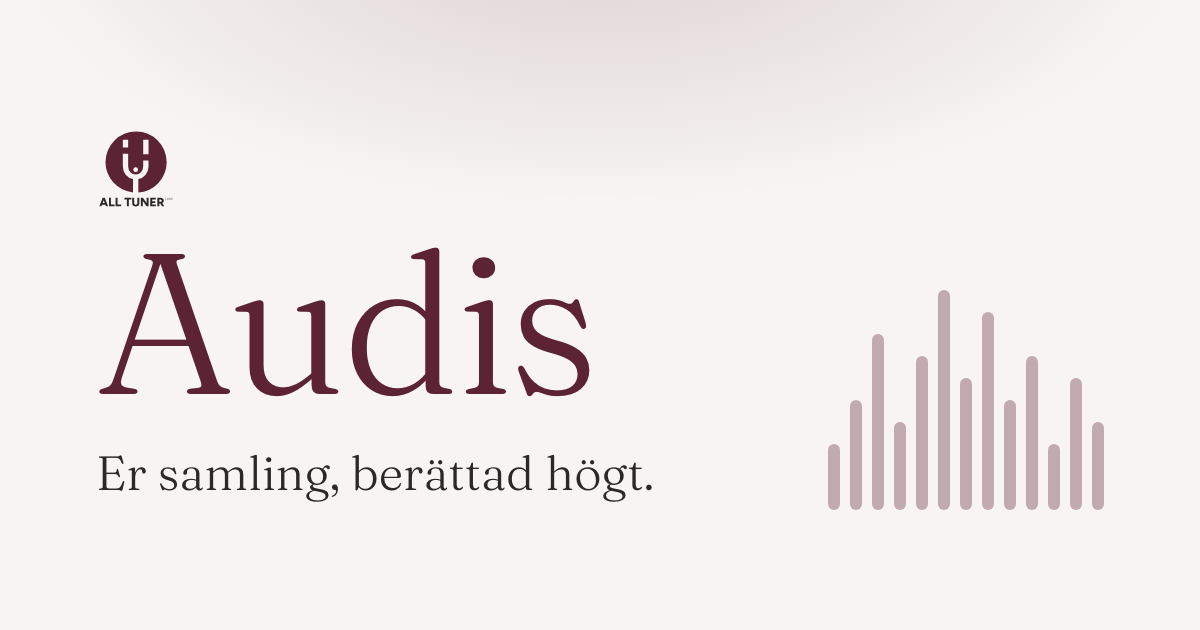
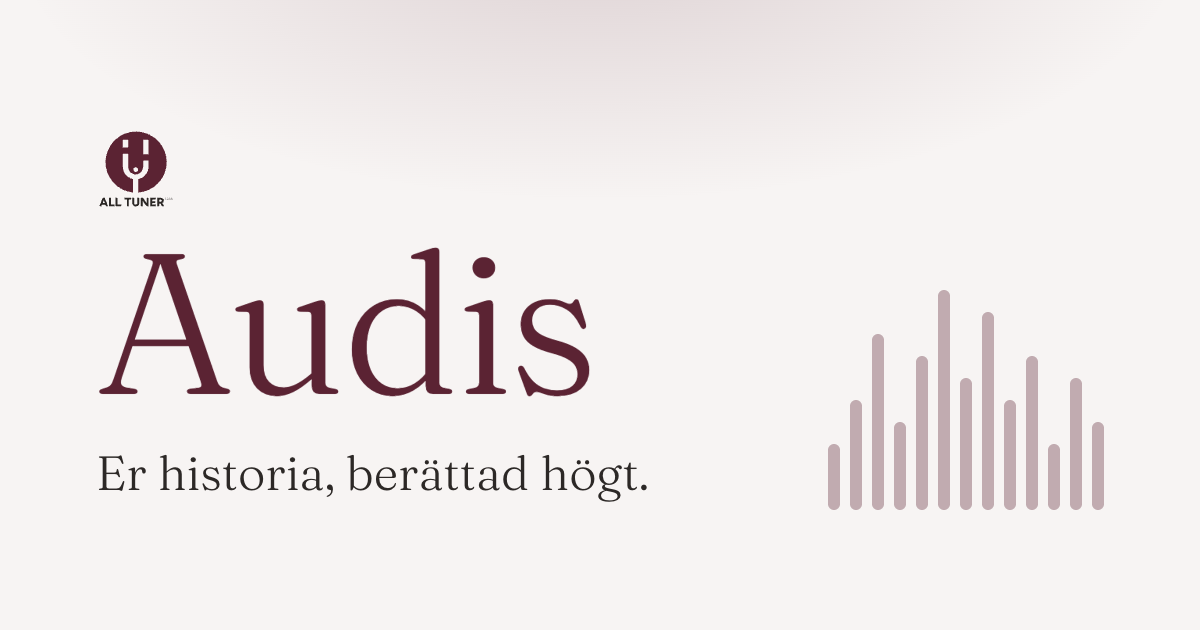
Broaden the Swedish Audis page beyond museums (#64)
Swedish copy from the proposal: 'Er historia, berättad högt.', written for any organisation and its audience rather than a museum's collection and visitors. Updates the Swedish homepage blurb and share image to match. Other languages are unchanged.

Changed region(s): [[0.1233, 0.7238, 0.555, 0.8143]]

diff --git a/scripts/og/audis.html b/scripts/og/audis.html
@@ -31,7 +31,7 @@
     var taglines = {
       en: "Your collection, told aloud.",
       ca: "La vostra col·lecció, explicada en veu alta.",
-      sv: "Er samling, berättad högt.",
+      sv: "Er historia, berättad högt.",
       es: "Su colección, contada en voz alta."
     };
     var lang = new URLSearchParams(location.search).get("lang") || "en";

diff --git a/content/sv/audis/_index.md b/content/sv/audis/_index.md
@@ -1,18 +1,18 @@
 ---
 title: "Audis"
-meta_title: "AllTuner Audis: ljudguider och berättelser för museer"
-description: "Ljudguider, berättelser om föremål och poddliknande avsnitt för museer och kulturinstitutioner, inlästa på era besökares språk."
+meta_title: "AllTuner Audis: er historia, berättad högt"
+description: "Ljudguider, berättelser om föremål och poddliknande avsnitt, skrivna just för er och inlästa på de språk ni önskar."
 outputs: [html]
 translationKey: audis
 service_name: "AllTuner Audis"
 og_image: "/statics/img/og/audis-sv.png"
-og_image_alt: "AllTuner Audis. Er samling, berättad högt."
-headline: "Er samling, berättad högt."
-lead: "Ljudguider, berättelser om föremål och poddliknande avsnitt, skrivna för er institution och inlästa på de språk era besökare talar, med undertexter som följer varje ord."
+og_image_alt: "AllTuner Audis. Er historia, berättad högt."
+headline: "Er historia, berättad högt."
+lead: "Ljudguider, berättelser om föremål och poddliknande avsnitt, skrivna just för er och inlästa på de språk ni önskar, med undertexter som följer varje ord."
 features:
-  - title: "Skrivet för er samling"
-    text: "Varje serie utgår från efterforskningar om er institution: dess föremål, dess människor och dess berättelser. Vårt team granskar varje uppgift och varje manus innan något ljud tas fram."
-  - title: "På era besökares språk"
+  - title: "Skrivet för er"
+    text: "Varje serie utgår från efterforskningar om och med er: era visioner, er målgrupp, era berättelser. Vårt team granskar varje uppgift och varje manus innan något spelas in."
+  - title: "På er målgrupps språk"
     text: "Varje språk får ett eget manus, skrivet för just det språket och inte översatt ord för ord, som läses in av en varm och uttrycksfull AI-röst."
   - title: "Undertexter som följer varje ord"
     text: "Varje avsnitt har en transkription och undertexter synkroniserade med rösten, så att det fungerar utan ljud och för besökare med nedsatt hörsel."
@@ -22,6 +22,6 @@ steps:
   - "Vi skriver manusen och granskar dem, uppgift för uppgift."
   - "Vi producerar avsnitten och synkroniserar undertexterna med rösten."
   - "Ni får en privat sida i er institutions stil, där ni kan lyssna på serien, dela den och bestämma er."
-cta_title: "Vill ni höra er egen samling?"
+cta_title: "Vill ni höra er egen historia?"
 cta_button: "Skriv till oss"
 ---
